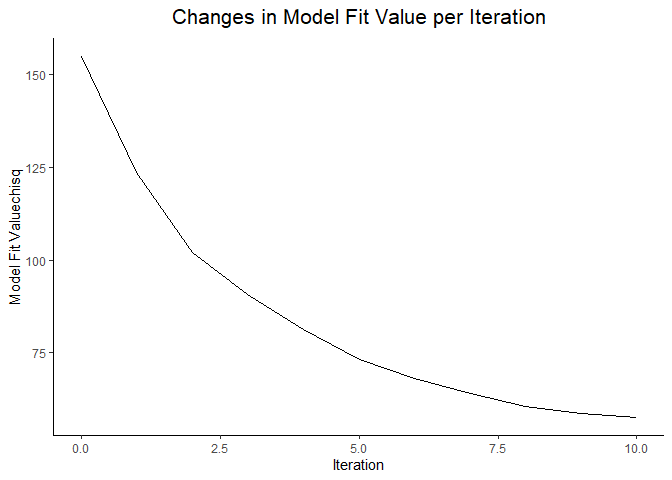
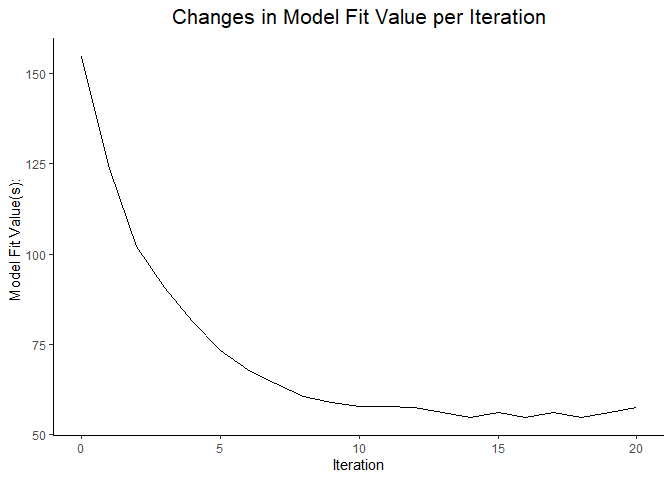
Changes to emphasize the methods and utilizing parallel code.

diff --git a/README.md b/README.md
@@ -84,10 +84,10 @@ fit.statistics.test = "(cfi > 0.90)&(rmsea < 0.10)",
 summaryfile = NULL,
 feedbackfile = NULL,
 max.run = 100, parallel = T)
-##   Run number 1 and ant number 1.            Run number 1 and ant number 2.            Run number 1 and ant number 3.            Run number 1 and ant number 4.            Run number 1 and ant number 5.            Run number 1 and ant number 6.            Run number 1 and ant number 7.            Run number 1 and ant number 8.            Run number 1 and ant number 9.            Run number 1 and ant number 10.            Run number 2 and ant number 1.            Run number 2 and ant number 2.            Run number 2 and ant number 3.            Run number 2 and ant number 4.            Run number 2 and ant number 5.            Run number 2 and ant number 6.            Run number 2 and ant number 7.            Run number 2 and ant number 8.            Run number 2 and ant number 9.            Run number 2 and ant number 10.            Run number 3 and ant number 1.            Run number 3 and ant number 2.            Run number 3 and ant number 3.            Run number 3 and ant number 4.            Run number 3 and ant number 5.            Run number 3 and ant number 6.            Run number 3 and ant number 7.            Run number 3 and ant number 8.            Run number 3 and ant number 9.            Run number 3 and ant number 10.            Run number 4 and ant number 1.            Run number 4 and ant number 2.            Run number 4 and ant number 3.            Run number 4 and ant number 4.            Run number 4 and ant number 5.            Run number 4 and ant number 6.            Run number 4 and ant number 7.            Run number 4 and ant number 8.            Run number 4 and ant number 9.            Run number 4 and ant number 10.            Run number 5 and ant number 1.            Run number 5 and ant number 2.            Run number 5 and ant number 3.            Run number 5 and ant number 4.            Run number 5 and ant number 5.            Run number 5 and ant number 6.            Run number 5 and ant number 7.            Run number 5 and ant number 8.            Run number 5 and ant number 9.            Run number 5 and ant number 10.            Run number 6 and ant number 1.            Run number 6 and ant number 2.            Run number 6 and ant number 3.            Run number 6 and ant number 4.            Run number 6 and ant number 5.            Run number 6 and ant number 6.            Run number 6 and ant number 7.            Run number 6 and ant number 8.            Run number 6 and ant number 9.            Run number 6 and ant number 10.            Run number 7 and ant number 1.            Run number 7 and ant number 2.            Run number 7 and ant number 3.            Run number 7 and ant number 4.            Run number 7 and ant number 5.            Run number 7 and ant number 6.            Run number 7 and ant number 7.            Run number 7 and ant number 8.            Run number 7 and ant number 9.            Run number 7 and ant number 10.            Run number 8 and ant number 1.            Run number 8 and ant number 2.            Run number 8 and ant number 3.            Run number 8 and ant number 4.            Run number 8 and ant number 5.            Run number 8 and ant number 6.            Run number 8 and ant number 7.            Run number 8 and ant number 8.            Run number 8 and ant number 9.            Run number 8 and ant number 10.            Run number 9 and ant number 1.            Run number 9 and ant number 2.            Run number 9 and ant number 3.            Run number 9 and ant number 4.            Run number 9 and ant number 5.            Run number 9 and ant number 6.            Run number 9 and ant number 7.            Run number 9 and ant number 8.            Run number 9 and ant number 9.            Run number 9 and ant number 10.            Run number 10 and ant number 1.            Run number 10 and ant number 2.            Run number 10 and ant number 3.            Run number 10 and ant number 4.            Run number 10 and ant number 5.            Run number 10 and ant number 6.            Run number 10 and ant number 7.            Run number 10 and ant number 8.            Run number 10 and ant number 9.            Run number 10 and ant number 10.            Run number 11 and ant number 1.            Run number 11 and ant number 2.            Run number 11 and ant number 3.            Run number 11 and ant number 4.            Run number 11 and ant number 5.            Run number 11 and ant number 6.            Run number 11 and ant number 7.            Run number 11 and ant number 8.            Run number 11 and ant number 9.            Run number 11 and ant number 10.            Run number 12 and ant number 1.            Run number 12 and ant number 2.            Run number 12 and ant number 3.            Run number 12 and ant number 4.            Run number 12 and ant number 5.            Run number 12 and ant number 6.            Run number 12 and ant number 7.            Run number 12 and ant number 8.            Run number 12 and ant number 9.            Run number 12 and ant number 10.            Run number 13 and ant number 1.            Run number 13 and ant number 2.            Run number 13 and ant number 3.            Run number 13 and ant number 4.            Run number 13 and ant number 5.            Run number 13 and ant number 6.            Run number 13 and ant number 7.            Run number 13 and ant number 8.            Run number 13 and ant number 9.            Run number 13 and ant number 10.            Run number 14 and ant number 1.            Run number 14 and ant number 2.            Run number 14 and ant number 3.            Run number 14 and ant number 4.            Run number 14 and ant number 5.            Run number 14 and ant number 6.            Run number 14 and ant number 7.            Run number 14 and ant number 8.            Run number 14 and ant number 9.            Run number 14 and ant number 10.            Run number 15 and ant number 1.            Run number 15 and ant number 2.            Run number 15 and ant number 3.            Run number 15 and ant number 4.            Run number 15 and ant number 5.            Run number 15 and ant number 6.            Run number 15 and ant number 7.            Run number 15 and ant number 8.            Run number 15 and ant number 9.            Run number 15 and ant number 10.            Run number 16 and ant number 1.            Run number 16 and ant number 2.            Run number 16 and ant number 3.            Run number 16 and ant number 4.            Run number 16 and ant number 5.            Run number 16 and ant number 6.            Run number 16 and ant number 7.            Run number 16 and ant number 8.            Run number 16 and ant number 9.            Run number 16 and ant number 10.            Run number 17 and ant number 1.            Run number 17 and ant number 2.            Run number 17 and ant number 3.            Run number 17 and ant number 4.            Run number 17 and ant number 5.            Run number 17 and ant number 6.            Run number 17 and ant number 7.            Run number 17 and ant number 8.            Run number 17 and ant number 9.            Run number 17 and ant number 10.            Run number 18 and ant number 1.            Run number 18 and ant number 2.            Run number 18 and ant number 3.            Run number 18 and ant number 4.            Run number 18 and ant number 5.            Run number 18 and ant number 6.            Run number 18 and ant number 7.            Run number 18 and ant number 8.            Run number 18 and ant number 9.            Run number 18 and ant number 10.            Run number 19 and ant number 1.            Run number 19 and ant number 2.            Run number 19 and ant number 3.            Run number 19 and ant number 4.            Run number 19 and ant number 5.            Run number 19 and ant number 6.            Run number 19 and ant number 7.            Run number 19 and ant number 8.            Run number 19 and ant number 9.            Run number 19 and ant number 10.            Run number 20 and ant number 1.            Run number 20 and ant number 2.            Run number 20 and ant number 3.            Run number 20 and ant number 4.            Run number 20 and ant number 5.            Run number 20 and ant number 6.            Run number 20 and ant number 7.            Run number 20 and ant number 8.            Run number 20 and ant number 9.            Run number 20 and ant number 10.            Run number 21 and ant number 1.            Run number 21 and ant number 2.            Run number 21 and ant number 3.            Run number 21 and ant number 4.            Run number 21 and ant number 5.            Run number 21 and ant number 6.            Run number 21 and ant number 7.            Run number 21 and ant number 8.            Run number 21 and ant number 9.            Run number 21 and ant number 10.            Run number 22 and ant number 1.            Run number 22 and ant number 2.            Run number 22 and ant number 3.            Run number 22 and ant number 4.            Run number 22 and ant number 5.            Run number 22 and ant number 6.            Run number 22 and ant number 7.            Run number 22 and ant number 8.            Run number 22 and ant number 9.            Run number 22 and ant number 10.            Run number 23 and ant number 1.            Run number 23 and ant number 2.            Run number 23 and ant number 3.            Run number 23 and ant number 4.            Run number 23 and ant number 5.            Run number 23 and ant number 6.            Run number 23 and ant number 7.            Run number 23 and ant number 8.            Run number 23 and ant number 9.            Run number 23 and ant number 10.            Run number 24 and ant number 1.            Run number 24 and ant number 2.            Run number 24 and ant number 3.            Run number 24 and ant number 4.            Run number 24 and ant number 5.            Run number 24 and ant number 6.            Run number 24 and ant number 7.            Run number 24 and ant number 8.            Run number 24 and ant number 9.            Run number 24 and ant number 10.            Run number 25 and ant number 1.            Run number 25 and ant number 2.            Run number 25 and ant number 3.            Run number 25 and ant number 4.            Run number 25 and ant number 5.            Run number 25 and ant number 6.            Run number 25 and ant number 7.            Run number 25 and ant number 8.            Run number 25 and ant number 9.            Run number 25 and ant number 10.            Run number 26 and ant number 1.            Run number 26 and ant number 2.            Run number 26 and ant number 3.            Run number 26 and ant number 4.            Run number 26 and ant number 5.            Run number 26 and ant number 6.            Run number 26 and ant number 7.            Run number 26 and ant number 8.            Run number 26 and ant number 9.            Run number 26 and ant number 10.            Run number 27 and ant number 1.            Run number 27 and ant number 2.            Run number 27 and ant number 3.            Run number 27 and ant number 4.            Run number 27 and ant number 5.            Run number 27 and ant number 6.            Run number 27 and ant number 7.            Run number 27 and ant number 8.            Run number 27 and ant number 9.            Run number 27 and ant number 10.            Run number 28 and ant number 1.            Run number 28 and ant number 2.            Run number 28 and ant number 3.            Run number 28 and ant number 4.            Run number 28 and ant number 5.            Run number 28 and ant number 6.            Run number 28 and ant number 7.            Run number 28 and ant number 8.            Run number 28 and ant number 9.            Run number 28 and ant number 10.            Run number 29 and ant number 1.            Run number 29 and ant number 2.            Run number 29 and ant number 3.            Run number 29 and ant number 4.            Run number 29 and ant number 5.            Run number 29 and ant number 6.            Run number 29 and ant number 7.            Run number 29 and ant number 8.            Run number 29 and ant number 9.            Run number 29 and ant number 10.            Run number 30 and ant number 1.            Run number 30 and ant number 2.            Run number 30 and ant number 3.            Run number 30 and ant number 4.            Run number 30 and ant number 5.            Run number 30 and ant number 6.            Run number 30 and ant number 7.            Run number 30 and ant number 8.            Run number 30 and ant number 9.            Run number 30 and ant number 10.            Run number 31 and ant number 1.            Run number 31 and ant number 2.            Run number 31 and ant number 3.            Run number 31 and ant number 4.            Run number 31 and ant number 5.            Run number 31 and ant number 6.            Run number 31 and ant number 7.            Run number 31 and ant number 8.            Run number 31 and ant number 9.            Run number 31 and ant number 10.            Run number 32 and ant number 1.            Run number 32 and ant number 2.            Run number 32 and ant number 3.            Run number 32 and ant number 4.            Run number 32 and ant number 5.            Run number 32 and ant number 6.            Run number 32 and ant number 7.            Run number 32 and ant number 8.            Run number 32 and ant number 9.            Run number 32 and ant number 10.            Run number 33 and ant number 1.            Run number 33 and ant number 2.            Run number 33 and ant number 3.            Run number 33 and ant number 4.            Run number 33 and ant number 5.            Run number 33 and ant number 6.            Run number 33 and ant number 7.            Run number 33 and ant number 8.            Run number 33 and ant number 9.            Run number 33 and ant number 10.            Run number 34 and ant number 1.            Run number 34 and ant number 2.            Run number 34 and ant number 3.            Run number 34 and ant number 4.            Run number 34 and ant number 5.            Run number 34 and ant number 6.            Run number 34 and ant number 7.            Run number 34 and ant number 8.            Run number 34 and ant number 9.            Run number 34 and ant number 10.            Run number 35 and ant number 1.            Run number 35 and ant number 2.            Run number 35 and ant number 3.            Run number 35 and ant number 4.            Run number 35 and ant number 5.            Run number 35 and ant number 6.            Run number 35 and ant number 7.            Run number 35 and ant number 8.            Run number 35 and ant number 9.            Run number 35 and ant number 10.            Run number 36 and ant number 1.            Run number 36 and ant number 2.            Run number 36 and ant number 3.            Run number 36 and ant number 4.            Run number 36 and ant number 5.            Run number 36 and ant number 6.            Run number 36 and ant number 7.            Run number 36 and ant number 8.            Run number 36 and ant number 9.            Run number 36 and ant number 10.           [1] "Compiling results."
+##   Run number 1 and ant number 1.            Run number 1 and ant number 2.            Run number 1 and ant number 3.            Run number 1 and ant number 4.            Run number 1 and ant number 5.            Run number 1 and ant number 6.            Run number 1 and ant number 7.            Run number 1 and ant number 8.            Run number 1 and ant number 9.            Run number 1 and ant number 10.            Run number 2 and ant number 1.            Run number 2 and ant number 2.            Run number 2 and ant number 3.            Run number 2 and ant number 4.            Run number 2 and ant number 5.            Run number 2 and ant number 6.            Run number 2 and ant number 7.            Run number 2 and ant number 8.            Run number 2 and ant number 9.            Run number 2 and ant number 10.            Run number 3 and ant number 1.            Run number 3 and ant number 2.            Run number 3 and ant number 3.            Run number 3 and ant number 4.            Run number 3 and ant number 5.            Run number 3 and ant number 6.            Run number 3 and ant number 7.            Run number 3 and ant number 8.            Run number 3 and ant number 9.            Run number 3 and ant number 10.            Run number 4 and ant number 1.            Run number 4 and ant number 2.            Run number 4 and ant number 3.            Run number 4 and ant number 4.            Run number 4 and ant number 5.            Run number 4 and ant number 6.            Run number 4 and ant number 7.            Run number 4 and ant number 8.            Run number 4 and ant number 9.            Run number 4 and ant number 10.            Run number 5 and ant number 1.            Run number 5 and ant number 2.            Run number 5 and ant number 3.            Run number 5 and ant number 4.            Run number 5 and ant number 5.            Run number 5 and ant number 6.            Run number 5 and ant number 7.            Run number 5 and ant number 8.            Run number 5 and ant number 9.            Run number 5 and ant number 10.            Run number 6 and ant number 1.            Run number 6 and ant number 2.            Run number 6 and ant number 3.            Run number 6 and ant number 4.            Run number 6 and ant number 5.            Run number 6 and ant number 6.            Run number 6 and ant number 7.            Run number 6 and ant number 8.            Run number 6 and ant number 9.            Run number 6 and ant number 10.            Run number 7 and ant number 1.            Run number 7 and ant number 2.            Run number 7 and ant number 3.            Run number 7 and ant number 4.            Run number 7 and ant number 5.            Run number 7 and ant number 6.            Run number 7 and ant number 7.            Run number 7 and ant number 8.            Run number 7 and ant number 9.            Run number 7 and ant number 10.            Run number 8 and ant number 1.            Run number 8 and ant number 2.            Run number 8 and ant number 3.            Run number 8 and ant number 4.            Run number 8 and ant number 5.            Run number 8 and ant number 6.            Run number 8 and ant number 7.            Run number 8 and ant number 8.            Run number 8 and ant number 9.            Run number 8 and ant number 10.           [1] "Compiling results."
 abilityShortForm # print the results of the final short form
 ##  Algorithm: Ant Colony Optimization
-##  Total Run Time: 2.671 mins
+##  Total Run Time: 33.628 secs
 ##  
 ##  Function call:
 ##  antcolony.lavaan(data = simulated_test_data, ants = 10, evaporation = 0.9,
@@ -102,8 +102,8 @@ abilityShortForm # print the results of the final short form
 ##  
 ##  Final Model Syntax:
 ##  
-##  Ability =~ Item56 + Item28 + Item14 + Item2 + Item9 + Item55 + Item44 + Item53 +
-##    Item30 + Item42 + Item16 + Item18 + Item12 + Item19 + Item37
+##  Ability =~ Item11 + Item56 + Item8 + Item18 + Item55 + Item16 + Item30 + Item53
+##    + Item46 + Item25 + Item44 + Item10 + Item40 + Item37 + Item26
 ##  Outcome ~ Ability
 plot(abilityShortForm, type = 'pheromone') # the pheromone plot for class "antcolony"
 ```
@@ -112,7 +112,7 @@ plot(abilityShortForm, type = 'pheromone') # the pheromone plot for class "antco
 
 A similar example can be found in the `antcolony.mplus` function, but
 requires you to have a valid Mplus installation on the computer. It took
-a total of 2.73 mins to run this example.
+a total of 36.42 secs to run this example.
 
 ### Tabu Search Algorithm
 
@@ -167,7 +167,7 @@ Tabu_example <- suppressWarnings(tabu.sem(init.model = init.model, ptab = ptab, 
 # check the final model
 summary(Tabu_example)
 ##  Algorithm: Tabu Search
-##  Total Run Time: 1.857 mins
+##  Total Run Time: 1.9 mins
 ##  
 ##  lavaan 0.6-5 ended normally after 43 iterations
 ##  
@@ -195,7 +195,7 @@ plot(Tabu_example)
 
 ![](README-Tabu%20example-1.png)<!-- -->
 
-It took a total of 1.86 mins to run this example.
+It took a total of 1.91 mins to run this example.
 
 The next Tabu example demonstrates how to use it to find a short form of
 a prespecified length with different data.
@@ -261,16 +261,16 @@ tabuCriterion = function(x) {
 tabuShort <- tabuShortForm(initialModel = tabuModel, originalData = tabuData,
                            numItems = c(4,4,4,4), 
                            criterion = tabuCriterion,
-                           niter = 10, tabu.size = 10, verbose = FALSE
+                           niter = 20, tabu.size = 10, verbose = FALSE
                            )
-##  Running iteration 1 of 10.   Running iteration 2 of 10.   Running iteration 3 of 10.   Running iteration 4 of 10.   Running iteration 5 of 10.   Running iteration 6 of 10.   Running iteration 7 of 10.   Running iteration 8 of 10.   Running iteration 9 of 10.   Running iteration 10 of 10.
+##  Running iteration 1 of 20.   Running iteration 2 of 20.   Running iteration 3 of 20.   Running iteration 4 of 20.   Running iteration 5 of 20.   Running iteration 6 of 20.   Running iteration 7 of 20.   Running iteration 8 of 20.   Running iteration 9 of 20.   Running iteration 10 of 20.   Running iteration 11 of 20.   Running iteration 12 of 20.   Running iteration 13 of 20.   Running iteration 14 of 20.   Running iteration 15 of 20.   Running iteration 16 of 20.   Running iteration 17 of 20.   Running iteration 18 of 20.   Running iteration 19 of 20.   Running iteration 20 of 20.
 
 # check the chosen model
 summary(tabuShort)
 ##  Algorithm: Tabu Search
-##  Total Run Time: 1.001 mins
+##  Total Run Time: 1.8 mins
 ##  
-##  lavaan 0.6-5 ended normally after 18 iterations
+##  lavaan 0.6-5 ended normally after 19 iterations
 ##  
 ##    Estimator                                         ML
 ##    Optimization method                           NLMINB
@@ -280,23 +280,23 @@ summary(tabuShort)
 ##                                                        
 ##  Model Test User Model:
 ##                                                        
-##    Test statistic                                57.638
+##    Test statistic                                54.642
 ##    Degrees of freedom                                98
 ##    P-value (Chi-square)                           1.000
 ##  
 ##  
 ##  Final Model Syntax:
-##  Trait1 =~ Item3 + Item4 + Item12 + Item11
-##  Trait2 =~ Item15 + Item16 + Item19 + Item20
-##  Trait3 =~ Item36 + Item31 + Item34 + Item35
-##  Trait4 =~ Item41 + Item40 + Item43 + Item44
+##  Trait1 =~ Item3 + Item4 + Item11 + Item8
+##  Trait2 =~ Item16 + Item19 + Item20 + Item15
+##  Trait3 =~ Item30 + Item31 + Item35 + Item36
+##  Trait4 =~ Item40 + Item45 + Item43 + Item44
 # plot the changes in the objective function over each iteration
 plot(tabuShort)
 ```
 
 ![](README-Tabu%20short%20form-1.png)<!-- -->
 
-It took a total of 1.01 mins to run this example.
+It took a total of 1.81 mins to run this example.
 
 ### Simulated Annealing
 
@@ -323,7 +323,7 @@ lavaan.model.specs = list(model.type = "cfa",
 
 # perform the SA algorithm
 set.seed(1)
-SA_example <- simulatedAnnealing(initialModel = saModel, originalData = saData, maxSteps = 200, fitStatistic = 'cfi', maximize = TRUE, temperature = "logistic", items = paste0("Item", 1:10), lavaan.model.specs = lavaan.model.specs, maxChanges = 3, maxItems = 5, setChains = 4)
+SA_example <- simulatedAnnealing(initialModel = saModel, originalData = saData, maxSteps = 100, fitStatistic = 'cfi', maximize = TRUE, temperature = "logistic", items = paste0("Item", 1:10), lavaan.model.specs = lavaan.model.specs, maxChanges = 3, maxItems = 5, setChains = 4)
 ##  Initializing short form creation.
 ##  The initial short form is:
 ##   Ability =~ Item9 + Item4 + Item7 + Item1 + Item2
@@ -338,7 +338,7 @@ SA_example <- simulatedAnnealing(initialModel = saModel, originalData = saData, 
 ##  Chain number 4 complete.
 summary(SA_example)
 ##  Algorithm: Simulated Annealing
-##  Total Run Time: 2.735 mins
+##  Total Run Time: 1.503 mins
 ##  
 ##  lavaan 0.6-5 ended normally after 15 iterations
 ##  
@@ -366,5 +366,5 @@ plot(SA_example) # plot showing how the fit value changes at each step
 
 ![](README-Simulated%20Annealing%20example-1.png)<!-- -->
 
-It took a total of 2.76 mins to run the SA example, and a total of 8.36
+It took a total of 1.53 mins to run the SA example, and a total of 5.85
 mins to run all four together.
